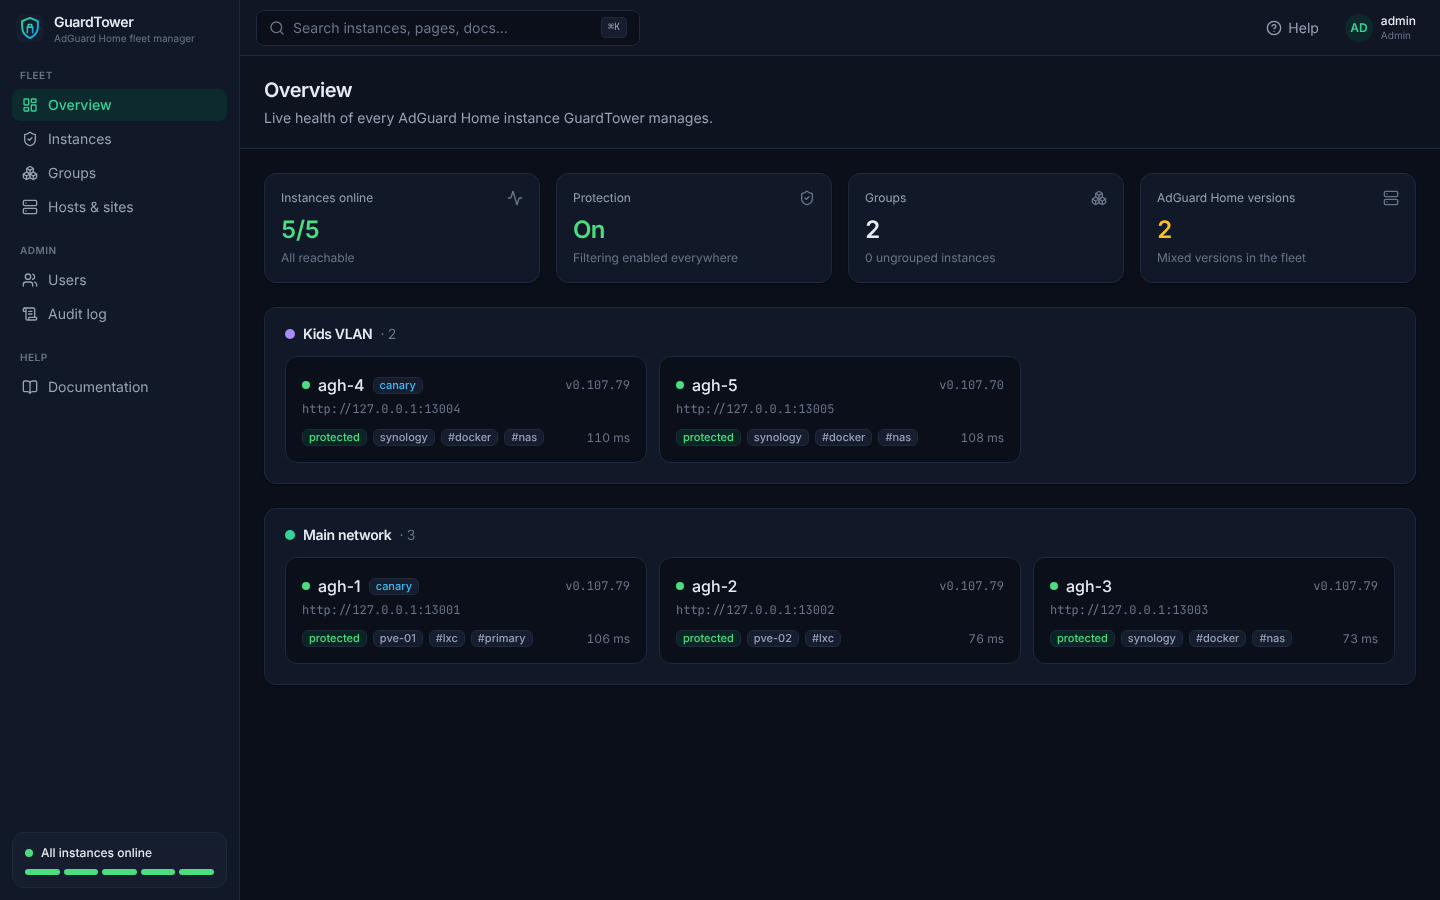
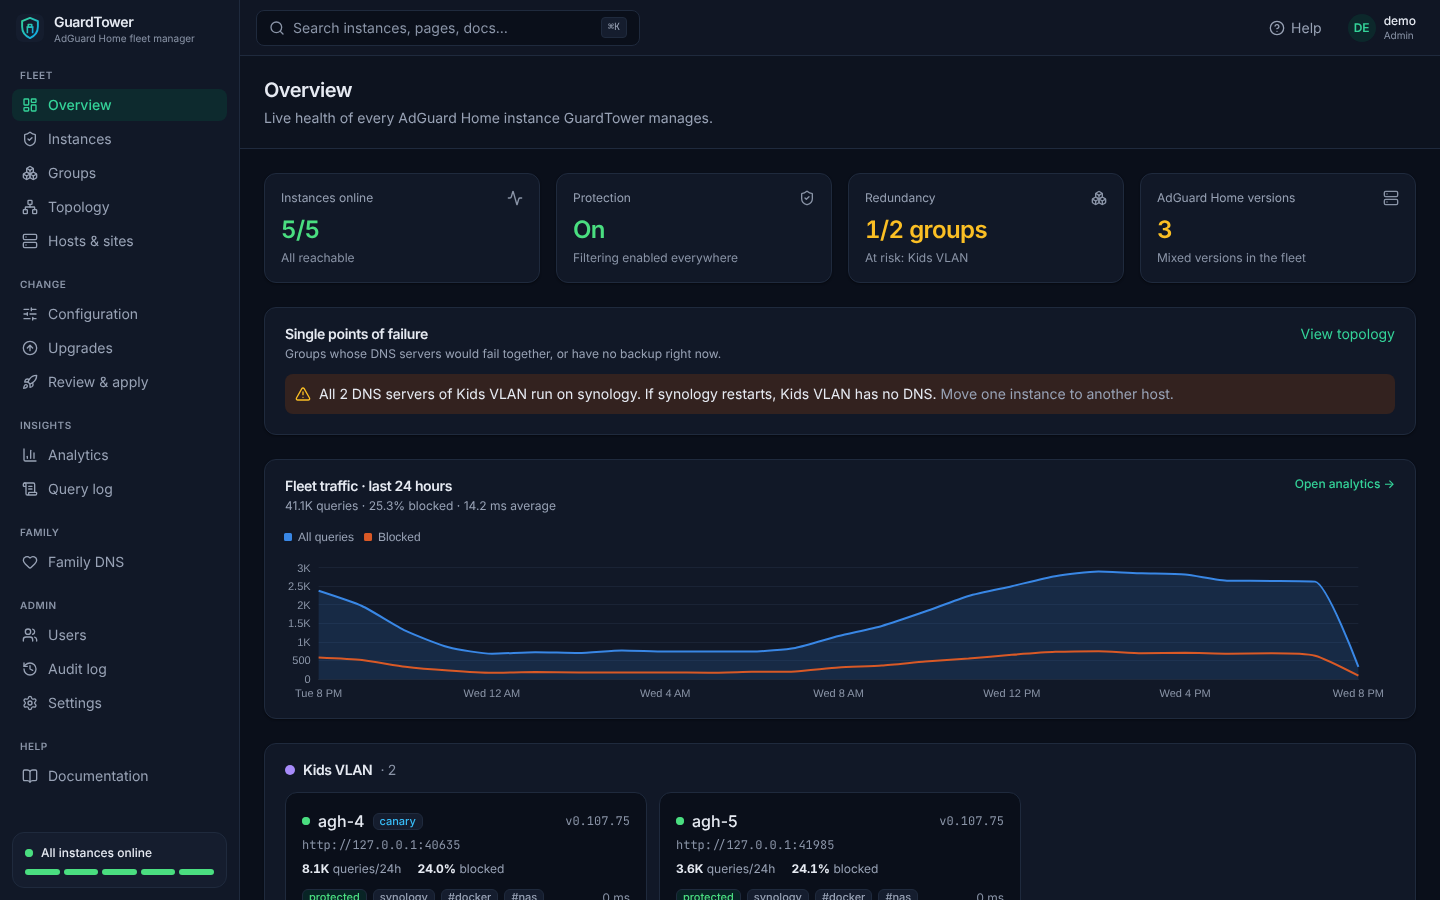
docs: README screenshots from demo mode, mkdocs site with strict link checks
- web/scripts/screenshots.mjs (npm run screenshots) regenerates .github/assets
  from guardtower serve --demo
- mkdocs.yml nav generated from page front matter (scripts/mkdocs_nav.py),
  the same order as the in-app wiki; CI checks it and builds --strict
- Pages workflow publishes the site on each release

Claude-Session: https://claude.ai/code/session_01Pn5DPQTmPRqDGf2s2c2GQj

diff --git a/scripts/mkdocs_nav.py b/scripts/mkdocs_nav.py
@@ -1,0 +1,39 @@
+#!/usr/bin/env python3
+"""Writes mkdocs.yml's nav from each page's front matter (section + order),
+the same ordering the in-app wiki uses (internal/api/handlers_docs.go).
+
+    python3 scripts/mkdocs_nav.py && mkdocs build --strict
+"""
+import pathlib
+import re
+
+ROOT = pathlib.Path(__file__).resolve().parent.parent
+SECTIONS = ["Getting started", "Setup", "Operation", "Family DNS", "Admin", "Reference"]
+
+pages = []
+for p in sorted((ROOT / "docs").rglob("*.md")):
+    rel = p.relative_to(ROOT / "docs").as_posix()
+    if rel.startswith("dev/") or p.name.startswith("_"):
+        continue
+    fm = re.match(r"^---\n(.*?)\n---\n", p.read_text(encoding="utf-8"), re.S)
+    meta = dict(re.findall(r"^(\w+):\s*(.*)$", fm.group(1), re.M)) if fm else {}
+    pages.append((SECTIONS.index(meta.get("section", "Reference")) if meta.get("section") in SECTIONS else len(SECTIONS),
+                  int(meta.get("order", 999)), meta.get("title", p.stem).strip().strip('"'), meta.get("section", "Reference"), rel))
+
+nav = ["nav:"]
+current = None
+for _, _, title, section, rel in sorted(pages):
+    if rel == "index.md":
+        nav.insert(1, f"  - Home: {rel}")
+        continue
+    if section != current:
+        nav.append(f'  - "{section}":')
+        current = section
+    nav.append(f'      - "{title.replace(chr(34), chr(39))}": {rel}')
+
+cfg = ROOT / "mkdocs.yml"
+text = cfg.read_text(encoding="utf-8")
+text = re.sub(r"(?ms)^nav:\n(?:  .*\n?)*", "", text).rstrip() + "\n\n# Generated by scripts/mkdocs_nav.py; don't edit by hand.\n" + "\n".join(nav) + "\n"
+text = text.replace("\n\n# Generated by scripts/mkdocs_nav.py; don't edit by hand.\n\n# Generated", "\n\n# Generated")
+cfg.write_text(text, encoding="utf-8")
+print(f"wrote nav for {len(pages)} pages")

diff --git a/README.md b/README.md
@@ -16,8 +16,21 @@
 </p>
 
 <p align="center">
-  <img src=".github/assets/overview.png" alt="GuardTower overview dashboard" width="900">
+  <img src=".github/assets/overview.png" alt="GuardTower overview: fleet health, a single-point-of-failure warning and 24 hours of traffic" width="900">
 </p>
+
+<table>
+  <tr>
+    <td><img src=".github/assets/topology.png" alt="Topology map: hosts, instances and the shared host behind Kids VLAN"></td>
+    <td><img src=".github/assets/analytics.png" alt="Analytics: a week of queries and blocks, and traffic per instance"></td>
+  </tr>
+  <tr>
+    <td><img src=".github/assets/family.png" alt="Family DNS: adult-site attempts per person, bedtime counts and bypass signals"></td>
+    <td><img src=".github/assets/config.png" alt="Configuration: Base, group and instance settings layers"></td>
+  </tr>
+</table>
+
+<p align="center"><sub>Screenshots from <a href="docs/getting-started/demo.md">demo mode</a> (<code>make build && cd web && npm run screenshots</code> regenerates them).</sub></p>
 
 ---
 
